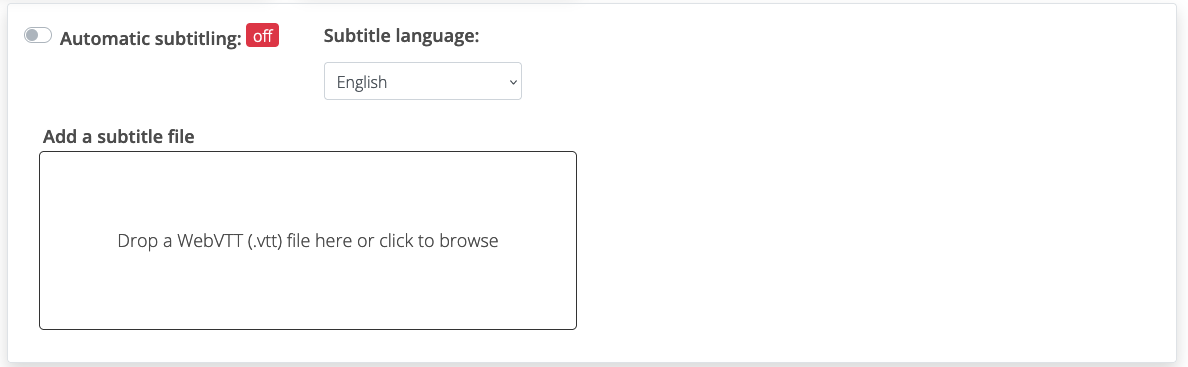
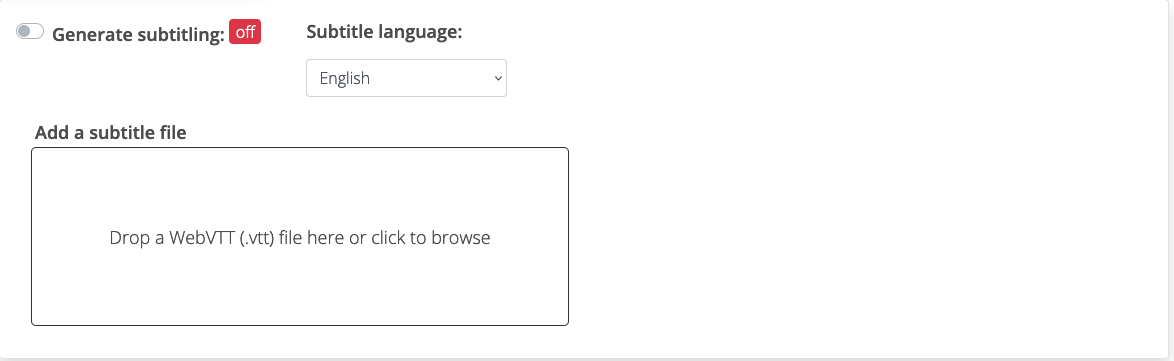
Updated user manual

diff --git a/resources/views/faq/edit.blade.php b/resources/views/faq/edit.blade.php
@@ -64,17 +64,27 @@
                 <p>{{__("You can automatically generate subtitles for your presentation by switching the toggle switch on. Subtitles will be generated with Whisper released by OpenAI, an automatic speech recognition system to generate subtitles. If you would rather upload your own subtitle file, you can leave the toggle switch off and upload the subtitle file in the box.")}}</p>
                 <br>
                 <h4>{{__("Download a transcribed subtitle file")}}</h4>
-                <p>{{__("If you want to edit a subtitle file or an auto-generated file, click the desired button after 'Subtitles' here at the top.")}}</p>
+                <p>{{__("In the first section besides ‘subtitles’ there will appear a button for downloading the transcribed subtitle file. Click on the button to download the transcribed subtitle file.")}}</p>
                 <br>
                 <img class="w-75" src="{{asset('images/manual/subtitlefile.png')}}" alt="Edit presentation" style="border: 1px solid #000; padding: 0;">
                 <br><br>
                 <p>{{__("The transcribed file will download and you can now edit it.")}}</p>
+                <br>
+                <h4>{{__("Delete a transcribed subtitle file")}}</h4>
+                <p>{{__("To remove a transcribed file from the presentation, click on the delete icon and then save the change")}}</p>
                 <br><br>
                 <h4>{{__("Upload an edited subtitle file")}}</h4>
                 <p>{{__("Upload an edited subtitle file by dropping it in the upload box along the bottom of the edit view. Also select language.")}}</p>
                 <br>
                 <img class="w-75" src="{{asset('images/manual/editsubtitle.png')}}" alt="Edit presentation" style="border: 1px solid #000; padding: 0;">
-                <br><br><br><br>
+                <br><br>
+                <h4>{{__("How to edit an existing subtitle")}}</h4>
+                <p>{{__("If you want to edit existing subtitles from a presentation, hoover over the presentation’s thumbnail. Buttons will appear in the upper right corner of the thumbnail.")}}</p>
+                <p>{{__("Click on the edit-button to edit the presentation.")}}</p>
+                <p>{{__("In the first section besides ‘subtitles’ there will appear a button for downloading the transcribed subtitle file. Click on the button to download the transcribed subtitle file.")}}</p>
+                <p>{{__("You can now edit the text, make sure you only edit the text, do not change the time codes in the file. The file will contain the transcript of the audio track as well as the time codes that sync the captions to the presentation.")}}</p>
+                <p>{{__("Once you have edited the transcribed file (make sure the saved file has the .vtt suffix), you can upload the edited transcribed file in the upload box in the edit-page of the presentation. Don’t forget to click on the ‘Save’ button. The process of replacing the transcribed file begins. Once it is done you will receive and email.")}}</p>
+                <br><br>
                 <p><strong>{{__("Save your settings and edits by clicking the 'save' button on the bottom of the page.")}}</strong></p>
             </article>
 

diff --git a/app/Http/Livewire/HandleSubtitles.php b/app/Http/Livewire/HandleSubtitles.php
@@ -15,10 +15,11 @@ class HandleSubtitles extends Component
     {
         $this->video = $video;
         $this->presentation = $presentation;
-        foreach (json_decode($this->video->subtitles, true) as $key => $sub) {
-            $this->purge[$key] = false;
+        if(!empty(json_decode($this->video->subtitles, true))) {
+            foreach (json_decode($this->video->subtitles, true) as $key => $sub) {
+                $this->purge[$key] = false;
+            }
         }
-
     }
 
     public function remove($subtitle)

diff --git a/resources/views/livewire/handle-subtitles.blade.php b/resources/views/livewire/handle-subtitles.blade.php
@@ -31,6 +31,8 @@
                         </span>
                     @endif
                 @endforeach
+            @else
+                {{__("No subtitles")}}
             @endif
         </div>
 
